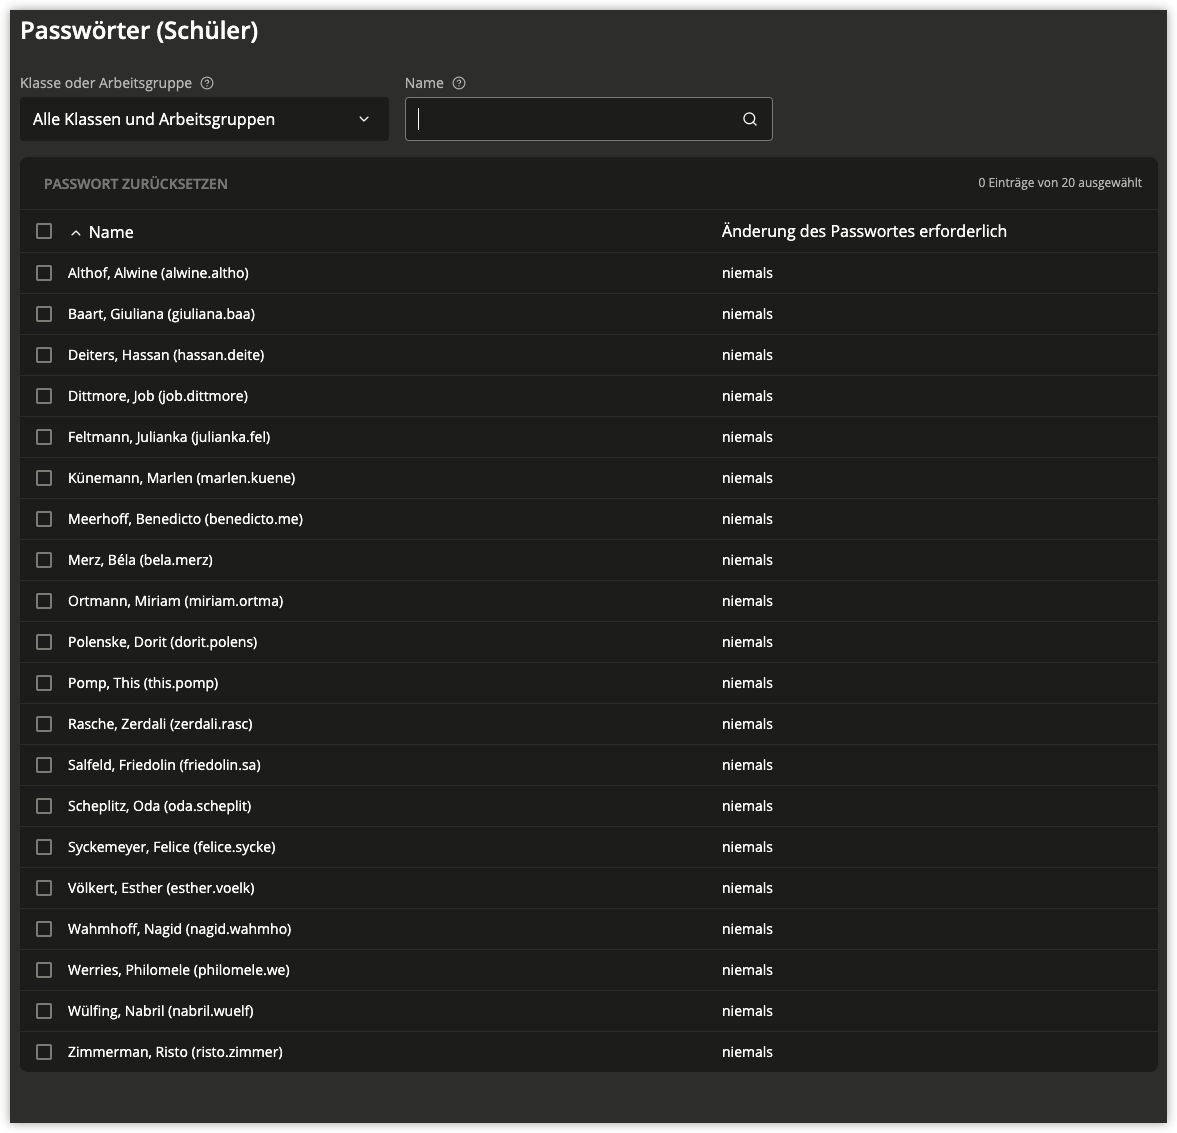
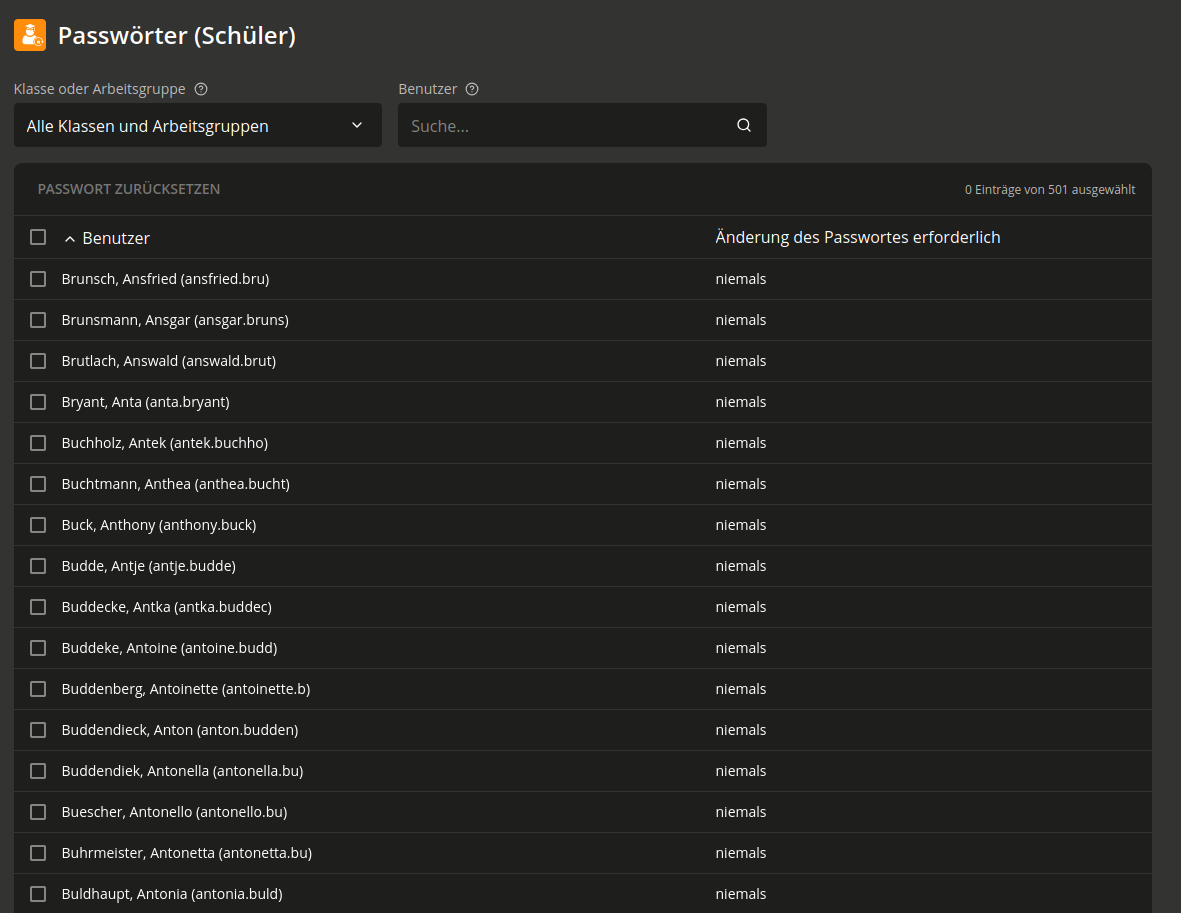
fix: rename "Name" column and search field to "User"
Bug #59515
Issue univention/dev/education/ucsschool#1530

Changed region(s): [[0.0, 0.0, 1.0, 1.0], [0.3364, 0.0613, 0.3976, 0.1533], [0.6117, 0.1227, 0.6423, 0.1533]]

diff --git a/ucs-school-umc-users/umc/js/schoolusers.js b/ucs-school-umc-users/umc/js/schoolusers.js
@@ -59,7 +59,7 @@ define([
 
 			var columns = [{
 				name: 'name',
-				label: _('Name'),
+				label: _('User'),
 				width: '60%'
 			}, {
 				name: 'passwordexpiry',
@@ -120,8 +120,8 @@ define([
 				name: 'pattern',
 				size: 'TwoThirds',
 				value: '',
-				description: _('Specifies the substring pattern which is searched for in the first name, surname and username'),
-				label: _('Name'),
+				description: _('Enter a search term to filter by first name, surname or username.'),
+				label: _('User'),
 				inlineLabel: _('Search...'),
 				onSearch: lang.hitch(this, function() {
 					this._searchForm.submit();

diff --git a/doc/ucsschool-teachers/teachers/passwords.rst b/doc/ucsschool-teachers/teachers/passwords.rst
@@ -26,7 +26,7 @@ Mit den folgenden Schritten kann ein Schülerpasswort neu gesetzt werden:
 
      Zurücksetzen von Schülerpasswörtern
 
-* Durch Eingabe von Benutzer-, Vor- und/oder Nachname in das Eingabefeld *Name*
+* Durch Eingabe von Benutzer-, Vor- und/oder Nachname in das Eingabefeld *Benutzer*
   und anschließendem Klick auf :guilabel:`Suchen` kann auch gezielt nach einem
   Schüler gesucht werden.
 
